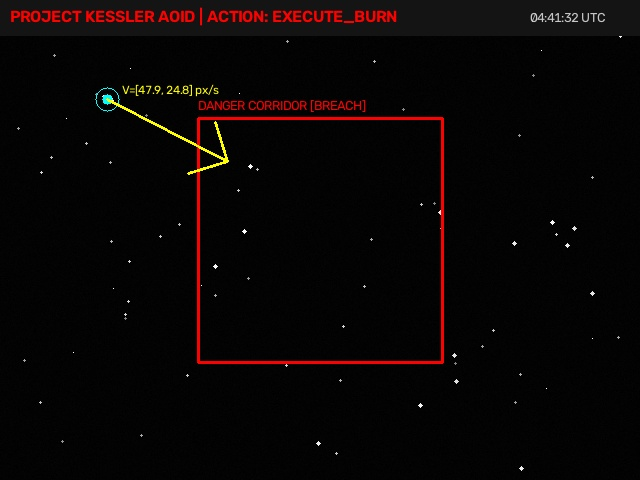
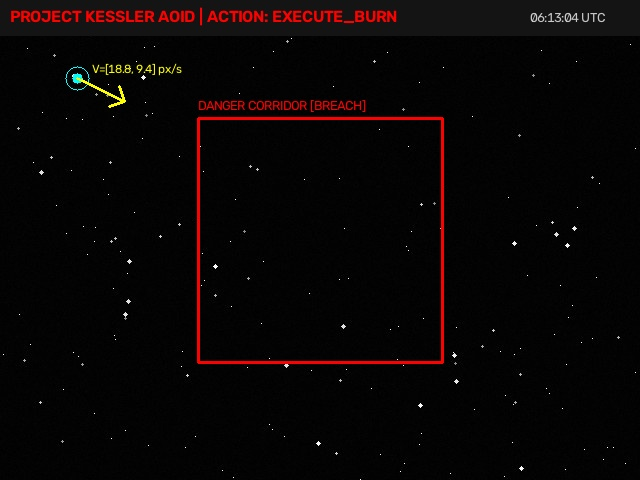
feat(dashboard): normalize debris score payload and add launch_core.py helper

diff --git a/core_phy/launch_core.py b/core_phy/launch_core.py
@@ -1,0 +1,66 @@
+#!/usr/bin/env python3
+"""
+Laptop 1: Core Physics & Simulator Node
+Binds to 0.0.0.0 to allow Edge Node (Laptop 2) to connect over the local network.
+"""
+import json
+import logging
+import os
+from pathlib import Path
+import sys
+import time
+
+# Auto-switch to virtualenv if required packages are present in bsk_env
+try:
+    import cv2
+    import numpy as np
+    import Basilisk
+except ImportError:
+    bsk_python = "/Users/chinmaya/bsk_env/bin/python3"
+    if os.path.exists(bsk_python) and sys.executable != bsk_python:
+        print(f"[launch_core] Switching to Python virtualenv at {bsk_python}...")
+        os.execv(bsk_python, [bsk_python] + sys.argv)
+
+ROOT_DIR = Path(__file__).resolve().parent.parent
+sys.path.insert(0, str(ROOT_DIR))
+
+from core_phy.fsw_server import FSWPhysicsServer
+
+logging.basicConfig(level=logging.INFO, format="%(asctime)s [%(levelname)s] [LAPTOP-1-CORE] %(message)s")
+
+def main():
+    config_path = ROOT_DIR / "networked_integration" / "network_config.json"
+    if config_path.exists():
+        with open(config_path, "r") as f:
+            config = json.load(f)
+        cmd_port = config["PORTS"]["core_cmd"]
+        stream_port = config["PORTS"]["core_stream"]
+    else:
+        cmd_port = 15556
+        stream_port = 15000
+
+    bind_host = "0.0.0.0"
+    ephem_path = ROOT_DIR / "shared" / "initial_ephemeris.json"
+
+    logging.info(f"Starting Core FSW Server on {bind_host}")
+    logging.info(f"Command Port: {cmd_port} | Stream Port: {stream_port}")
+    logging.info(f"Initial Ephemeris Path: {ephem_path}")
+
+    server = FSWPhysicsServer(
+        bind_host=bind_host,
+        cmd_port=cmd_port,
+        stream_port=stream_port,
+        ephemeris_path=str(ephem_path),
+    )
+    
+    try:
+        server.start()
+        logging.info("Core Node running. Press Ctrl+C to stop.")
+        while True:
+            time.sleep(1)
+    except KeyboardInterrupt:
+        logging.info("Shutting down Core Node...")
+        server.stop()
+
+if __name__ == "__main__":
+    main()

diff --git a/edge_pro/payload_manager.py b/edge_pro/payload_manager.py
@@ -416,8 +416,20 @@ class PayloadManager:
                     logger.warning(f"Could not encode HUD for broadcast: {e}")
 
             scores_data = getattr(decision_packet, "debug_scores", None) or getattr(decision_packet, "scoring_audit", None) or {}
-            self_score = scores_data.get("self") if isinstance(scores_data, dict) else {}
-            peer_score = scores_data.get("peer") if isinstance(scores_data, dict) else {}
+
+            if isinstance(scores_data, dict) and scores_data.get("conjunction_type") == "SPACECRAFT_VS_DEBRIS":
+                self_score = {
+                    "asset_id": scores_data.get("local_asset"),
+                    "score": scores_data.get("local_score"),
+                    "factors": scores_data.get("local_factors", {}),
+                }
+                peer_score = None
+            elif isinstance(scores_data, dict):
+                self_score = scores_data.get("self")
+                peer_score = scores_data.get("peer")
+            else:
+                self_score = {}
+                peer_score = {}
 
             self.dashboard_ws.broadcast({
                 "type": "vision",
@@ -430,6 +442,8 @@ class PayloadManager:
                 "target_asset": decision_packet.target_asset,
                 "delta_v_vector_mps": decision_packet.delta_v_vector_mps,
                 "delta_v_magnitude_mps": decision_packet.delta_v_magnitude_mps,
+                "conjunction_type": scores_data.get("conjunction_type") if isinstance(scores_data, dict) else None,
+                "weights": scores_data.get("weights", {}) if isinstance(scores_data, dict) else {},
                 "scores": {
                     "self": self_score or {},
                     "peer": peer_score or {}

diff --git a/core_phy/fsw_server.py b/core_phy/fsw_server.py
@@ -75,9 +75,15 @@ class FSWPhysicsServer:
 
     def load_ground_ephemeris(self) -> dict:
         """Loads master initial ephemeris generated by Ground AI."""
-        if self.ephemeris_path.exists():
+        target_path = self.ephemeris_path
+        if not target_path.exists():
+            workspace_fallback = Path(__file__).resolve().parent.parent / "shared" / "initial_ephemeris.json"
+            if workspace_fallback.exists():
+                target_path = workspace_fallback
+
+        if target_path.exists():
             try:
-                data = json.loads(self.ephemeris_path.read_text())
+                data = json.loads(target_path.read_text())
                 logger.info(
                     "Ingested Ground AI Ephemeris: Primary '%s', Debris '%s'",
                     data["primary_asset"]["name"],
